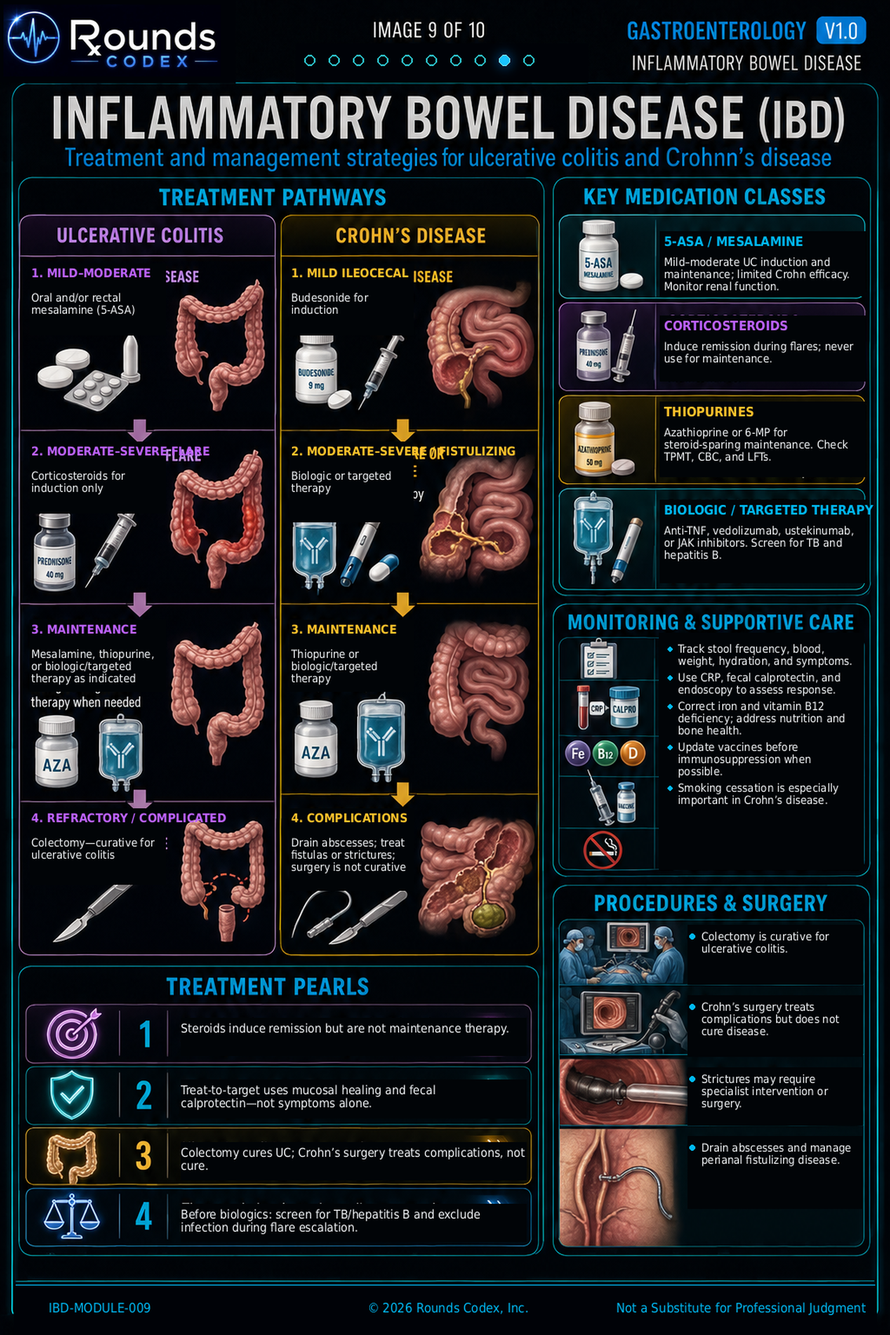
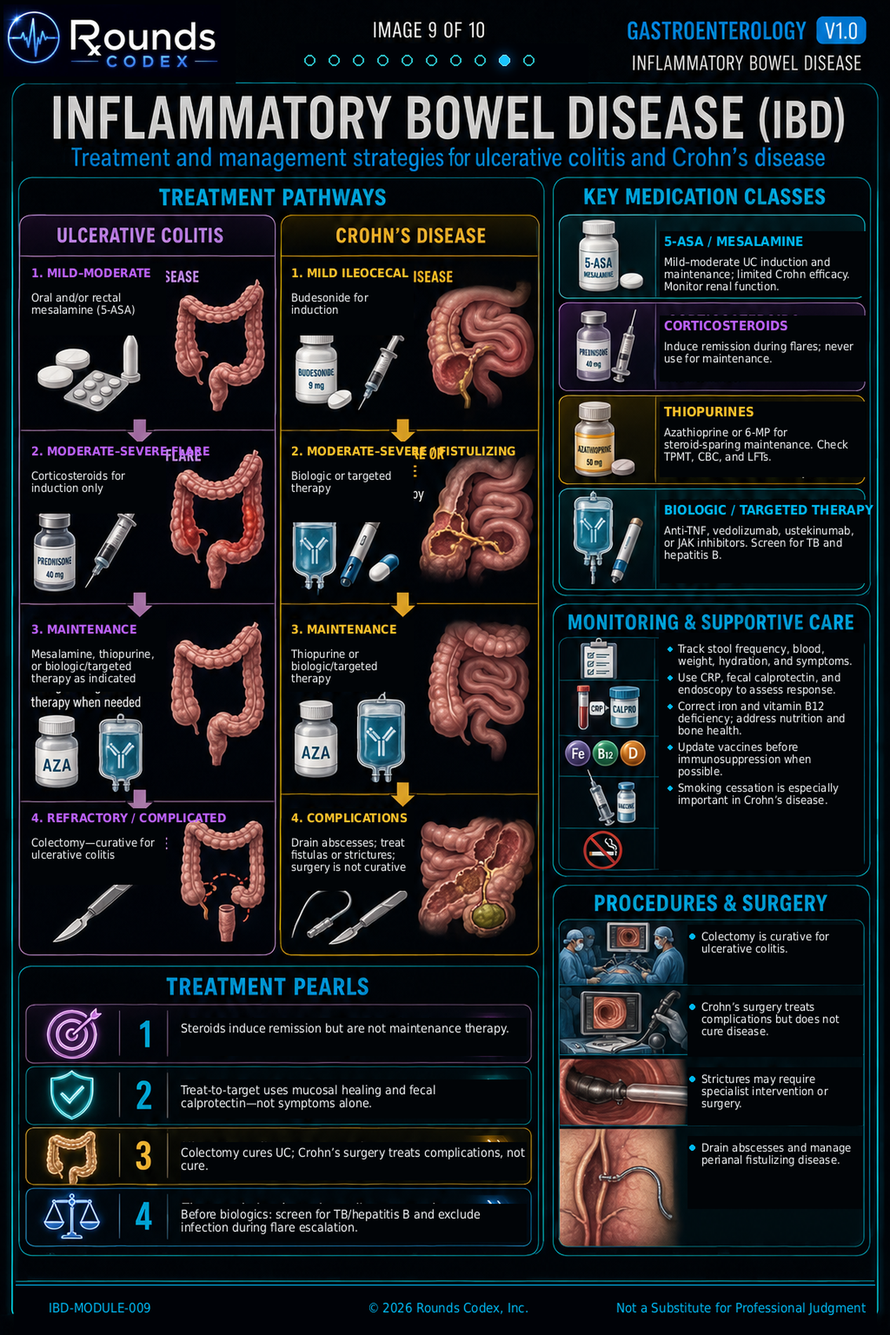
Record the glyph-surgery technique for artwork typos
Both IBD p9 and Diverticulitis p5 typos are fixed in the app repo at 99d1dc6.

The note worth keeping is the method, since text errors in artwork will recur:
move the page's own glyphs rather than typesetting a replacement. Re-rendering
means matching font, weight, colour, tracking and glow, and a near-miss is more
conspicuous than the original typo; rearranging existing glyphs matches by
construction. "MEITT" happened to contain exactly the letters "ETTI" needs.

Also recorded: segment the line into glyph runs and print width plus advance for
each before editing -- that listing is what reveals merged glyphs, and "TT" came
through as a single 17px run here. And edit the staged source PNG, not the
shipped JPEG, so the correction does not go through a second lossy encode; then
rebuild the thumbnail and the gallery PDF, since neither updates itself.

Claude-Session: https://claude.ai/code/session_01PaxV6GtPfBAcBcZfQRyLJ8

Changed region(s): [[0.0625, 0.0938, 0.9375, 0.125]]

diff --git a/app-integration-queue.md b/app-integration-queue.md
@@ -929,11 +929,39 @@ where needed and encoded at q88; nothing else was touched.
 **Page format**: the new `<CONDITION>-MODULE-00N` footer with no IMAGE TITLE field is now the
 norm across all three sets. Titles come from the subtitle line under the main heading.
 
-**Content notes for the physician** (shipped as delivered — wording is a content call):
-- IBD page 9 subtitle reads "Crohnn's disease" — doubled n.
-- Diverticulitis page 5 labels the severity scale "(AMBROSMEITT)"; the classification is
-  **Ambrosetti**.
+**Two artwork typos, since corrected in `99d1dc6`** — see the technique note below.
+- IBD page 9 subtitle read "Crohnn's disease" — doubled n. **Fixed.**
+- Diverticulitis page 5 labelled the severity scale "(AMBROSMEITT)"; it is the **Ambrosetti**
+  classification. **Fixed.**
 - IBD progress dots show 8 on pages 1–2 and 10 on pages 3–10; several Bowel Obstruction pages
   show 11–12. Cosmetic only, and the header text is right everywhere — but see the standing
   note that the dot strip must never be used to order pages.
 - IBD page 1 is © 2025 where pages 2–10 are © 2026.
+
+
+### 13. Fixing typos baked into artwork (`99d1dc6`)
+Two text errors lived in the page images, not in any JSON, so they could only be fixed in
+pixels. **Both were repaired by moving the page's own glyphs — nothing was typeset.** That is
+the technique worth reusing: re-rendering text means matching the font, weight, colour, tracking
+and glow, and a near-miss on any of them is more conspicuous than the typo. Rearranging existing
+glyphs matches by construction.
+
+**"Crohnn's" → "Crohn's"** (IBD p9). The two `n` glyphs are adjacent and identical — mean
+difference of 10 levels, which is worth asserting before cutting. One advance (22px: glyph plus
+its letterspacing) was removed and the line re-composited around the gap, left half shifted
+right 11px and right half left 11px, so the centred line stays centred on 773.0.
+
+**"(AMBROSMEITT)" → "(AMBROSETTI)"** (Diverticulitis p5). The happy accident: `MEITT` contains
+exactly the letters `ETTI` needs. Drop the `M`, move the `I` behind the two `T`s, copying each
+block with its native trailing letterspacing. Word narrows by the M's 13px advance, re-centred
+on 887.
+
+**Do the surgery on the staged source PNG, before the downscale.** Editing the shipped
+1024×1536 JPEG would put the correction through a second lossy encode and work at two-thirds the
+pixels to align against. Then rebuild the affected thumbnail *and* the gallery PDF — both derive
+from the page and neither updates itself.
+
+Method that made this tractable: segment the line into glyph runs by column gaps, print each run
+with its width and advance, and map runs to letters before touching anything. The run list is
+also how you catch merged glyphs — `TT` came through as one 17px run, which would have wrecked a
+naive index-based edit.
